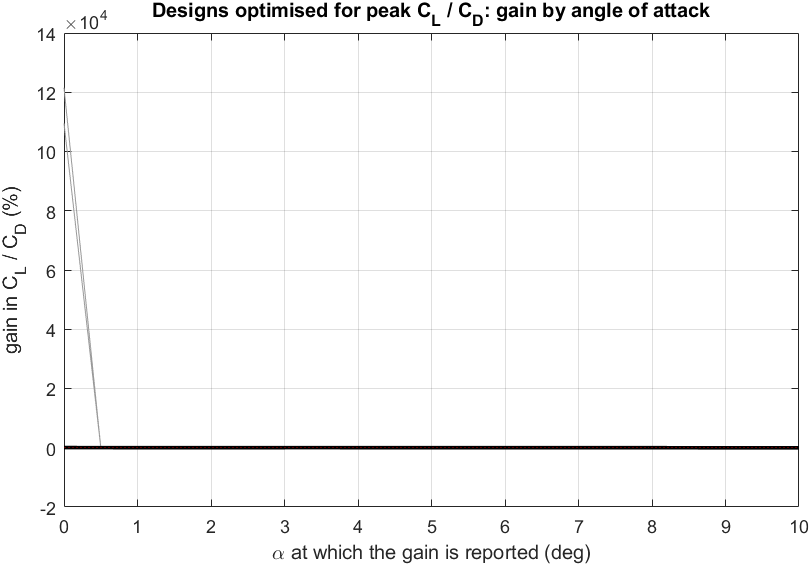
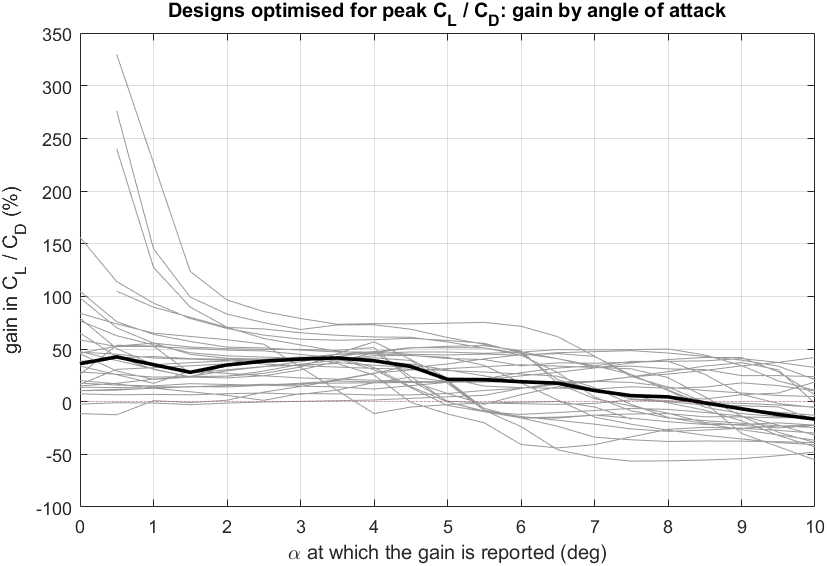
gain_by_angle figure: leave out the symmetric originals at 0 deg, where CL/CD is about 0 and a relative gain is not defined (the scale was set by gains of 10^5 %); morphing-path figure

diff --git a/MATLAB/Paper/collect_population_results.m b/MATLAB/Paper/collect_population_results.m
@@ -275,6 +275,7 @@ end
 exportgraphics(f, fullfile(outDir, 'gains_by_condition.png'), 'Resolution', 130);
 close(f);
 if ~isempty(A)
+    A = A(abs(A.LD_original) >= 1, :);              % a gain against CL/CD of about 0 (symmetric originals at 0 deg) is not defined
     f = figure('Color', 'w', 'Position', [60 60 700 430], 'Visible', 'off');
     hold on;  box on;  grid on;
     for k = 1:numel(names)

diff --git a/results/population/README.md b/results/population/README.md
@@ -77,7 +77,9 @@ At the design condition, the same designs measured three ways (`conditions.csv`,
 
 A design optimised at 2° shows about twice the gain at that angle that it has in peak CL/CD, and almost
 none at the design lift; the largest single value at 2° is 141 %. `gain_by_angle.csv` and the figure give
-the gain of the peak-optimised designs at every angle.
+the gain of the peak-optimised designs at every angle. The figure leaves out the three symmetric originals
+(NACA 0009, 0012, 0015) at 0°, where their CL/CD is about zero and a gain relative to it is not defined;
+the CSV keeps them.
 
 ![Gain by reporting angle](gain_by_angle.png)
 
